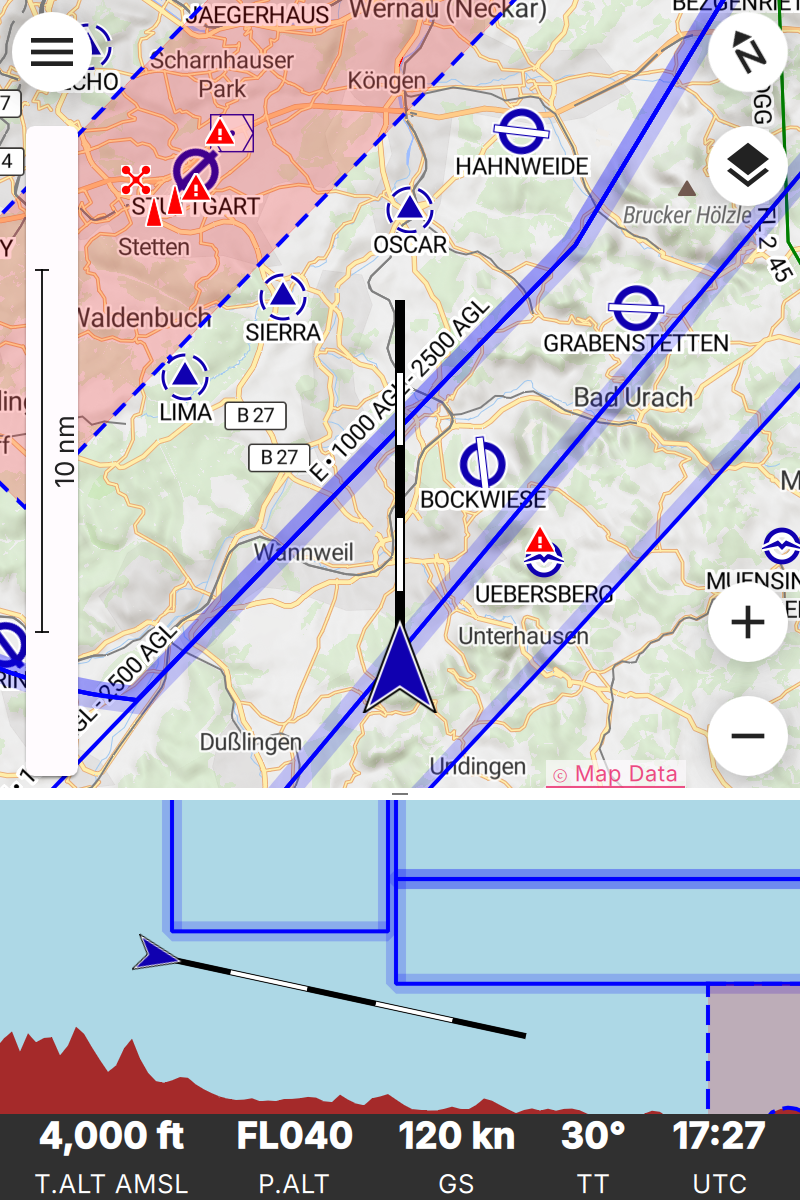
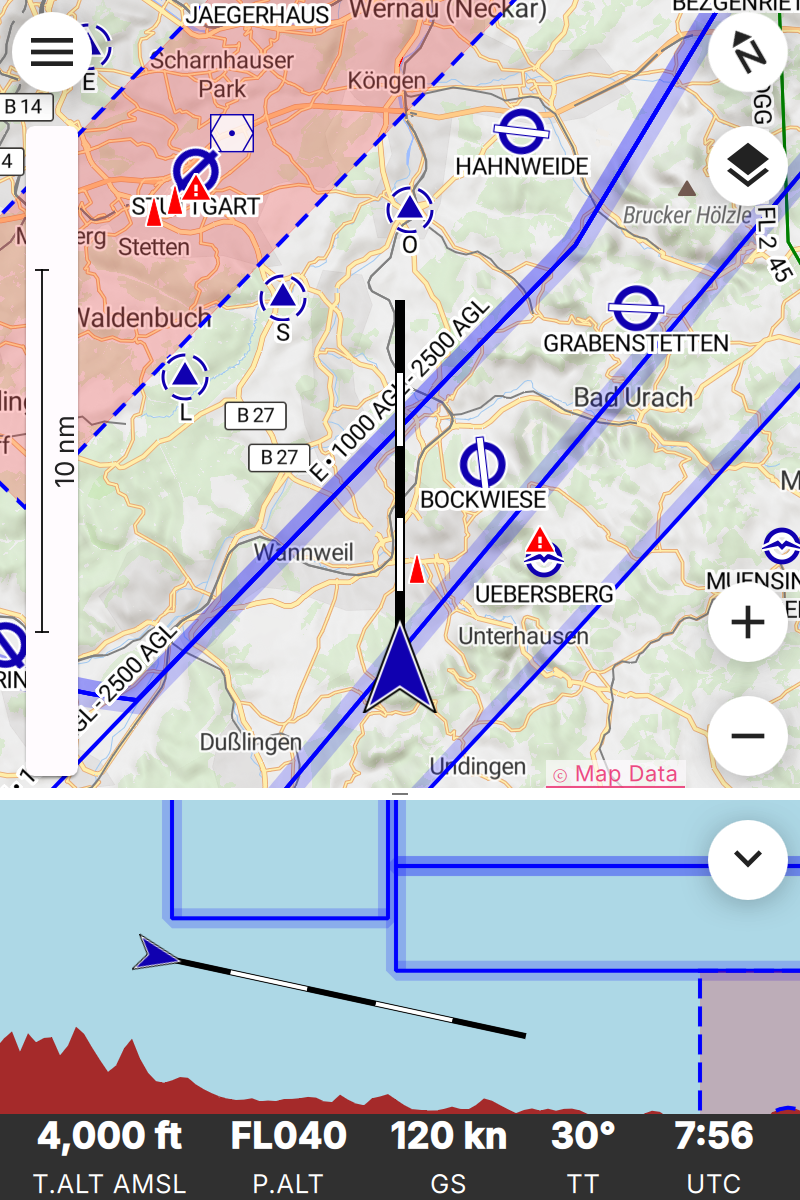
Update

diff --git a/src/11-appendix/04-privacy.rst b/src/11-appendix/04-privacy.rst
@@ -175,15 +175,15 @@ Andere Server
 ~~~~~~~~~~~~~
 
 Auf Anforderung des Benutzers kann **Enroute Flight Navigation** externe
-Webseiten öffnen. Diese werden enteder in einem eingebetteten Browser
+Webseiten öffnen. Diese werden entweder in einem eingebetteten Browser
 angezeigt, oder das Betriebssystem wird eine externe App (wie z.B.
 Google Maps) öffnen. Diese externen Webseiten entziehen sich unserer
 Kontrolle und sammeln eventuell Daten.
 
-Benutzer erwarten, dass der eingebette Browser jeden Link sofort öffnet.
-Ausserhalb des eingebetten Browsers werden die Benutzer unter Umständen
-ein anderes Verhalten erwarten. Um diesen Erwartungen zu entsprechen,
-verhält sich **Enroute Flight Navigation** folgendermaßen.
+Benutzer erwarten, dass der eingebettete Browser jeden Link sofort
+öffnet. Außerhalb des eingebetteten Browsers werden die Benutzer unter
+Umständen ein anderes Verhalten erwarten. Um diesen Erwartungen zu
+entsprechen, verhält sich **Enroute Flight Navigation** folgendermaßen.
 
 - **Innerhalb des eingebetteten Browsers**: Ein Klick auf einen Link
   wird als Autorisierung gewertet, die externe Seite sofort zu öffnen.

diff --git a/src/11-appendix/05-authors.rst b/src/11-appendix/05-authors.rst
@@ -19,15 +19,15 @@ Contributions
   big dream and now flies helicopters.
 - **Programming:** Christian Engelhardt implemented the OGN network
   connection, flight plan export and started the implementation of
-  density altitude calculation. Christian is a PPL pilot in southern
+  height density calculation. Christian is a PPL pilot in southern
   Germany, studied electrical engineering and works as an embedded
   software engineer.
-- **Programming:** Tom Linz completed density altitude calculation. He
+- **Programming:** Tom Linz completed height density calculation. He
   received his PPL license in late 2024. Tom works as a development
   engineer for safety systems.
 - **Programming:** Markus Marks helped to implement the side view. Based
-  in southern Germany, Markus is an enthusiastic glider pilot and a
-  software developer working in embedded systems.
+  in southern Germany, Markus is an enthusiastic glider pilot software
+  developer working in embedded systems.
 - **Programming:** Simon Schneider implemented the first working version
   of the side view.
 
